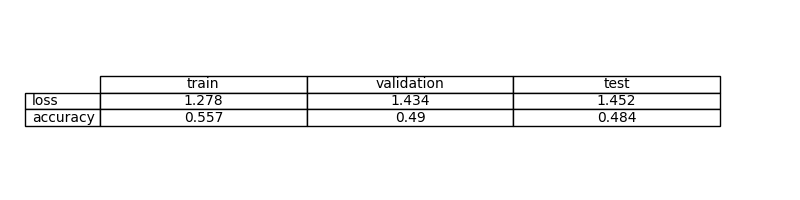
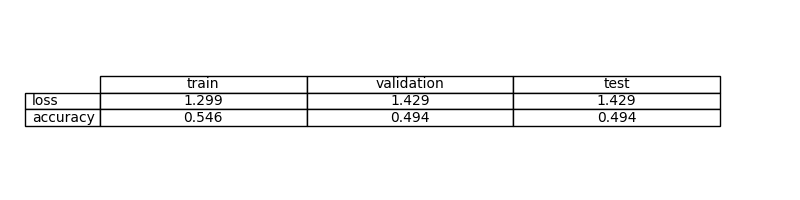
cambios del dataset

diff --git a/src/exercise_05/evaluate.py b/src/exercise_05/evaluate.py
@@ -143,13 +143,9 @@ if __name__ == "__main__":
     transform = transforms.Compose([transforms.ToTensor(), transforms.Normalize((0.0, 0.0, 0.0), (1.0, 1.0, 1.0))])
 
     # Create an instance of the dataset
-    dataset = CIFAR10Dataset("./data", train=True, transform=transform)
-
-    # Split the dataset into train, validation, and test sets
-    train_size = int(0.7 * len(dataset))
-    val_size = int(0.15 * len(dataset))
-    test_size = len(dataset) - train_size - val_size
-    train_dataset, val_dataset, test_dataset = random_split(dataset, [train_size, val_size, test_size])
+    train_dataset = CIFAR10Dataset("./data", train=True, transform=transform)
+    test_dataset = CIFAR10Dataset("./data", train=False, transform=transform)
+    val_dataset = CIFAR10Dataset("./data", train=False, transform=transform)
 
     # Create DataLoaders for the datasets
     batch_size=64
@@ -165,7 +161,7 @@ if __name__ == "__main__":
     model = MultiLayerPerceptron_05(input_dim=input_dim, output_dim=output_dim, num_hidden_neurons=num_hidden_neurons).to(device)
     model.load_state_dict(torch.load(output_folder / "best_model.pth", map_location=device, weights_only=True))
 
-    class_names = dataset.data.classes
+    class_names = train_dataset.data.classes
     metrics = {}
     metrics["train"] = evaluate_and_plot(train_loader, model, "train", output_folder, device, class_names)
     metrics["validation"] = evaluate_and_plot(val_loader, model, "validation", output_folder, device, class_names)

diff --git a/src/exercise_05/train.py b/src/exercise_05/train.py
@@ -33,13 +33,9 @@ def train_model(output_folder: Path, device: torch.device):
     transform = transforms.Compose([transforms.ToTensor(), transforms.Normalize((0.0, 0.0, 0.0), (1.0, 1.0, 1.0))])
 
     # Create an instance of the dataset
-    dataset = CIFAR10Dataset("./data", train=True, transform=transform)
-
-    # Split the dataset into train, validation, and test sets
-    train_size = int(0.7 * len(dataset))
-    val_size = int(0.15 * len(dataset))
-    test_size = len(dataset) - train_size - val_size
-    train_dataset, val_dataset, test_dataset = random_split(dataset, [train_size, val_size, test_size])
+    train_dataset = CIFAR10Dataset("./data", train=True, transform=transform)
+    test_dataset = CIFAR10Dataset("./data", train=False, transform=transform)
+    val_dataset = CIFAR10Dataset("./data", train=False, transform=transform)
 
     # Create DataLoaders for the datasets
     batch_size=64 # Se aumenta para reducir el tiempo de entrenamiento

diff --git a/src/exercise_05/dataset.py b/src/exercise_05/dataset.py
@@ -47,6 +47,7 @@ if __name__ == "__main__":
 
     dataset_train = CIFAR10Dataset("./data", train=True, transform=transform)
     dataset_test = CIFAR10Dataset("./data", train=False, transform=transform)
+    dataset_val = CIFAR10Dataset("./data", train=False, transform=transform)
     print(f"Dataset length: {len(dataset_train)}")
     print(f"First item: {dataset_train[0]}")
     # save the plot

diff --git a/src/exercise_05/readme_exercise.md b/src/exercise_05/readme_exercise.md
@@ -8,51 +8,186 @@ Primero prueba un modelo solo con capas totalmente conectadas. Crear un archivo 
 
 ¿Cuáles son las conclusiones?
 
+El modelo MLP basado únicamente en capas totalmente conectadas consigue aprender patrones básicos del conjunto CIFAR-10 y alcanzar un rendimiento razonable, pero presenta limitaciones claras en capacidad de generalización. Las métricas obtenidas y las matrices de confusión muestran que, aunque clasifica correctamente una parte significativa de las imágenes, comete errores frecuentes entre clases visualmente similares. Esto se debe principalmente a que al aplanar la imagen se pierde la estructura espacial, lo que hace que este tipo de arquitectura no sea la más adecuada para tareas de clasificación de imágenes complejas.
+
 ## Formalización de tareas
 
-Escribe tu respuesta aquí.
+La tarea puede formalizarse en dos pasos. Primero, definimos claramente el objetivo que se desea alcanzar. En este caso, se trata de un problema de clasificación multiclase supervisada, donde el objetivo es asignar correctamente cada imagen del conjunto CIFAR-10 a una de sus diez clases posibles. Cada muestra de entrada corresponde a una imagen RGB de 32×32 píxeles, que se transforma en un vector de características al utilizar un modelo basado únicamente en capas totalmente conectadas.
+
+En segundo lugar, definimos el enfoque adoptado para resolver el problema. Se ha utilizado un modelo MLP (Multi-Layer Perceptron) compuesto exclusivamente por capas fully-connected, entrenado mediante la minimización de la función de pérdida Cross-Entropy utilizando el optimizador AdamW. El rendimiento del modelo se evalúa mediante métricas como la pérdida y la accuracy en los conjuntos de entrenamiento, validación y test, complementándose con el análisis de la matriz de confusión para estudiar el comportamiento por clase.
 
 ### Formalización de tareas (Inferencia)
 
-Escribe tu respuesta aquí.
+Existe una función desconocida $f$ que relaciona cada imagen $x$ del conjunto CIFAR-10 con su clase correspondiente.
+
+$$
+y = f(x)
+$$
+
+Nuestro objetivo es aproximar esta función mediante un modelo de aprendizaje automático parametrizado por una matriz de pesos $W$ de manera que:
+
+$$
+\hat{y} = f(W,x)
+$$	
+
+donde \hat{y} representa el vector de salida del modelo (logits), a partir del cual se obtiene la clase predicha aplicando la operación:
+
+$$
+clase predicha = arg max(\hat{y})
+$$
+
+Expresado gráficamente:
+
+```mermaid
+graph TD
+    A((x: imagen 3x32x32)) --> B["Flatten"]
+    B --> C["MLP f(W,x)"]
+    C --> D((ŷ: logits 10 clases))
+    D --> E["argmax"]
+    E --> F((Clase predicha))
+```
+
+El vector de entrada, tras el aplanado de la imagen, tiene tamaño: [bs×3072]
+
+donde $bs$ es el batch size, y 3072 corresponde a $3x32x32$
+
+La salida del modelo tiene tamaño: [bs×10], correspondiente a los logits asociados a las 10 clases del conjunto CIFAR-10.
 
 ### Formalización de tareas (Entrenamiento)
 
-Escribe tu respuesta aquí.
+#### Explicación del diagrama de entrenamiento
+
+El diagrama representa el proceso completo de entrenamiento de un modelo de clasificación multiclase basado en un Perceptrón Multicapa (MLP), entrenado mediante la minimización de la función de pérdida Cross-Entropy.
+
+##### Elementos del diagrama
+
+- x: imagen de entrada del conjunto CIFAR-10 (3×32×32).
+- y: etiqueta real asociada a la imagen (valor entero entre 0 y 9).
+- Flatten: operación que transforma la imagen en un vector de tamaño 3072.
+- f(W, x): modelo MLP parametrizado por los pesos W.
+- \hat{y} (logits): salida del modelo, vector de tamaño 10 que representa las puntuaciones para cada clase.
+- Loss: función de pérdida CrossEntropyLoss que mide la diferencia entre los logits y la clase real.
+- W: conjunto de parámetros del modelo que se ajustan durante el entrenamiento.
+- Optimizador (AdamW): algoritmo utilizado para actualizar los pesos del modelo.
+
+##### Flujo del proceso de aprendizaje
+
+1. La imagen x se introduce en el modelo tras ser aplanada.
+2. El modelo f(W, x) genera un vector de logits ŷ.
+3. Los logits ŷ se comparan con la etiqueta real y mediante la función de pérdida CrossEntropyLoss(ŷ, y).
+4. La función de pérdida produce un valor escalar que cuantifica el error del modelo.
+5. Este error se utiliza para calcular los gradientes y actualizar los pesos W mediante el optimizador AdamW.
+6. Los pesos actualizados se realimentan al modelo, cerrando el ciclo de entrenamiento.
+
+Este proceso se repite de forma iterativa a lo largo de múltiples épocas hasta que la función de pérdida converge o se alcanza el número máximo de épocas definido.
+
+```mermaid
+graph TD
+    A((x: imagen))
+    B((y: etiqueta real))
+    F["Flatten"]
+    M["Modelo MLP f(W,x)"]
+    C((ŷ: logits))
+    L["CrossEntropyLoss(ŷ, y)"]
+    O["Optimizador AdamW"]
+    W((W))
+
+    A --> F
+    F --> M
+    W --> M
+    M --> C
+    C --> L
+    B --> L
+    L --> O
+    O --> W
+```
 
 ## Métricas de evaluación
 
-Escribe tu respuesta aquí.
+En este ejercicio estamos abordando un problema de clasificación multiclase, por lo que las métricas utilizadas difieren de las empleadas en problemas de regresión.
+
+Para evaluar el rendimiento del modelo se han utilizado las siguientes métricas:
+
+- Cross-Entropy Loss: mide la diferencia entre los logits generados por el modelo y las etiquetas reales. Es la función de pérdida utilizada durante el entrenamiento y permite cuantificar el grado de ajuste del modelo.
+
+- Accuracy: representa el porcentaje de muestras correctamente clasificadas respecto al total. Es la métrica principal para evaluar el desempeño global del clasificador.
+
+- Matriz de confusión: permite analizar el comportamiento del modelo por clase, mostrando el número de aciertos y errores entre cada par de clases. Esta métrica resulta especialmente útil para identificar qué categorías se confunden con mayor frecuencia.
+
+Estas métricas se han calculado para los conjuntos de entrenamiento, validación y test, permitiendo evaluar tanto la capacidad de aprendizaje del modelo como su capacidad de generalización.
 
 ## Consideraciones de datos
 
 ### Descripción del conjunto de datos
 
-Escribe tu respuesta aquí.
+El conjunto de datos está compuesto por 60.000 imágenes en color (RGB) de tamaño 32×32 píxeles, distribuidas en 10 clases diferentes: airplane, automobile, bird, cat, deer, dog, frog, horse, ship y truck.
+
+Cada imagen puede representarse como un tensor de dimensión 3×32×32, correspondiente a los tres canales de color (rojo, verde y azul). En el caso del modelo MLP utilizado en este ejercicio, las imágenes se transforman mediante una operación de flatten, convirtiéndose en vectores de 3072 características.
+
+El conjunto se divide en:
+- Datos de entrenamiento
+- Datos de validación
+- Datos de test
+
+Lo que permite evaluar tanto la capacidad de aprendizaje del modelo como su capacidad de generalización ante datos no vistos durante el entrenamiento.
 
 ### Preparación y preprocesamiento de datos
 
-Escribe tu respuesta aquí.
+No se ha realizado ningún preprocesado. El conjunto de datos se ha dividido en conjuntos de entrenamiento, validación y prueba.
 
 ### Aumento de datos
 
-Escribe tu respuesta aquí.
+No se ha realizado ninguna ampliación de datos.
 
 ## Consideraciones del modelo
 
-Escribe tu respuesta aquí.
+Dado que el problema abordado es una tarea de clasificación multiclase, un modelo lineal simple no sería suficiente para capturar las relaciones complejas presentes en las imágenes del conjunto CIFAR-10. Las imágenes contienen patrones visuales no lineales que requieren una arquitectura capaz de modelar interacciones más complejas entre las características de entrada.
+
+Por este motivo se utiliza un Perceptrón Multicapa (MultiLayerPerceptron) compuesto por varias capas totalmente conectadas con función de activación ReLU. Esta arquitectura introduce no linealidad en el modelo, permitiendo aproximar funciones más complejas que una simple combinación lineal de los píxeles de entrada.
+
+La imagen de entrada (3×32×32) se transforma previamente en un vector de 3072 características mediante una operación de flatten. La salida del modelo consiste en un vector de 10 logits, uno por cada clase del conjunto CIFAR-10. No se aplica función de activación en la última capa, ya que se utiliza CrossEntropyLoss, que incorpora internamente la operación softmax necesaria para problemas de clasificación multiclase.
 
 ### Funciones de pérdida adecuadas
 
-Escribe tu respuesta aquí.
+La función de pérdida utilizada depende del tipo de problema que se esté abordando:
+
+En problemas de regresión, se emplean métricas como el error cuadrático medio (MSE), ya que la salida es un valor continuo.
+
+En problemas de clasificación multiclase, como en este ejercicio con CIFAR-10, se utiliza la Cross-Entropy Loss, que mide la discrepancia entre los logits generados por el modelo y la clase real.
+
+En este caso, se ha utilizado CrossEntropyLoss, ya que el objetivo es predecir correctamente una de las 10 clases posibles. Esta función combina internamente una operación softmax con la entropía cruzada, lo que la hace adecuada para tareas de clasificación multiclase.
 
 ### Función de Pérdida Seleccionada
 
-Escribe tu respuesta aquí.
+En esta tarea se utiliza la función de pérdida Cross-Entropy Loss, ya que el problema planteado es un problema de clasificación multiclase, donde la salida del modelo corresponde a una de las 10 clases posibles del conjunto CIFAR-10.
+
+La función Cross-Entropy mide la discrepancia entre los logits generados por el modelo y la etiqueta real, penalizando especialmente las predicciones incorrectas con alta confianza. Su expresión matemática puede escribirse como:
+
+$$ 
+CE = - \sum{y_i log(\hat{p_i})}
+$$
+
+donde:
+
+C es el número de clases,
+y_i es la etiqueta real codificada en formato one-hot,
+\hat{p_i} es la probabilidad predicha para la clase 
+
+En la implementación utilizada (CrossEntropyLoss de PyTorch), la función combina internamente la operación softmax con la entropía cruzada, por lo que el modelo devuelve directamente logits sin aplicar ninguna activación en la última capa.
+
+El objetivo del entrenamiento es ajustar los pesos sinápticos del modelo para minimizar esta función de pérdida mediante el optimizador AdamW, utilizando un algoritmo basado en gradiente descendente.
 
 ### Posibles arquitecturas
 
-Escribe tu respuesta aquí.
+Para problemas de clasificación de imágenes existen distintas arquitecturas posibles:
+
+Modelo lineal (perceptrón simple): este tipo de modelo realiza únicamente una combinación lineal de las características de entrada. En el caso de imágenes, esto implica que no puede capturar relaciones complejas entre los píxeles ni modelar patrones visuales relevantes. Por tanto, su capacidad de clasificación en un conjunto como CIFAR-10 es muy limitada.
+
+Perceptrón multicapa (MLP): los modelos con una o más capas ocultas y funciones de activación no lineales permiten modelar relaciones más complejas entre las características de entrada. Un MLP es un aproximador universal y puede aprender fronteras de decisión no lineales, lo que lo hace más adecuado que un modelo puramente lineal.
+
+Redes neuronales convolucionales (CNN): son arquitecturas específicamente diseñadas para trabajar con datos estructurados espacialmente, como imágenes. Las capas convolucionales permiten extraer características locales y preservar la información espacial, lo que generalmente produce un rendimiento superior en tareas de visión por computador.
+
+Dado que el enunciado del ejercicio restringe el uso a capas totalmente conectadas, la arquitectura seleccionada es un Perceptrón Multicapa (MLP) con capas ocultas y activaciones no lineales. Aunque no es la arquitectura óptima para clasificación de imágenes, permite modelar relaciones no lineales entre los píxeles y sirve como base comparativa para analizar posteriormente las ventajas de modelos más adecuados como las CNN.
 
 ### Activación de la última capa
 

diff --git a/src/exercise_03/readme_exercise.md b/src/exercise_03/readme_exercise.md
@@ -37,8 +37,7 @@ El vector de entrada tiene tamaño [bs x 1]. La matriz de pesos tiene un tamaño
 
 #### Explicación del diagrama de entrenamiento
 
-El diagrama representa el proceso completo de entrenamiento de un modelo de
-Machine Learning entrenado mediante la minimización de una función de pérdida.
+El diagrama representa el proceso completo de entrenamiento de un modelo de Machine Learning entrenado mediante la minimización de una función de pérdida.
 
 ##### Elementos del diagrama
 
